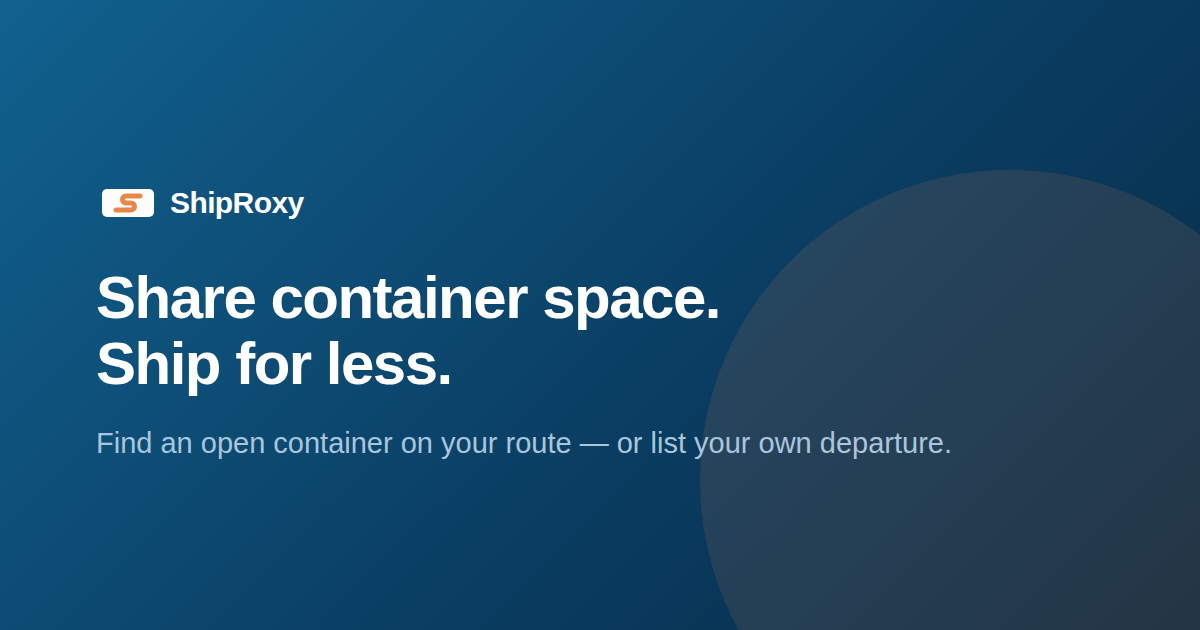
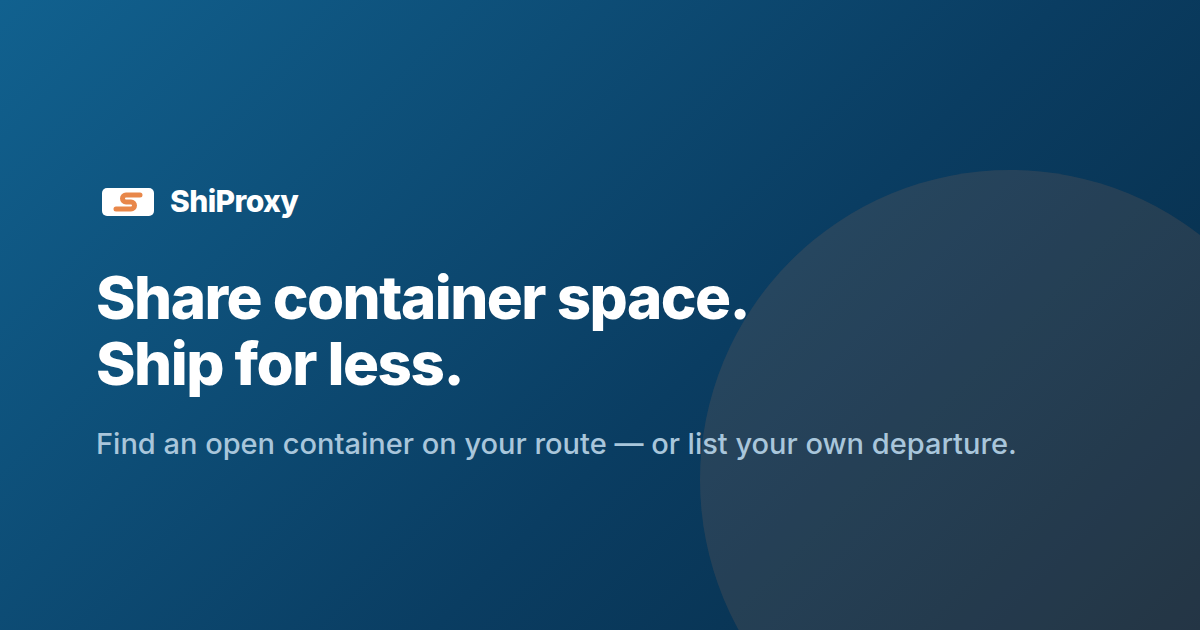
Rename the app to ShiProxy and add lockup PNG exports
Same eight letters, re-split: ShipRoxy read as "Ship + Roxy", ShiProxy
reads as "ship proxy", which is what the product is - a broker standing
between people with spare container space and people with something to
send. Applied to the locale app_name, the logo wordmarks, the PWA and
Capacitor manifests, the mailer and geocoder identities, and the docs.

Also export each lockup as a transparent PNG at 600px and 1200px into
public/images/brand/png/. An SVG loaded through <img> cannot fetch web
fonts, so the wordmark silently falls back outside the app; these are
rendered where Inter is a real installed face. The generator checks for
Inter and skips these rather than emitting exports in the wrong typeface.

Claude-Session: https://claude.ai/code/session_01PUei3KAA9GQjqyUBMMMsd2

diff --git a/scripts/generate-brand-assets.js b/scripts/generate-brand-assets.js
@@ -129,8 +129,51 @@ async function main() {
   console.log('Wrote public/images/og-fallback.png (1200x630).');
 
   await writeNativeAssets(page, { tile, markLight: fs.readFileSync(path.join(BRAND, 'logo-mark-light.svg'), 'utf8') });
+  await writeLockupPngs(page);
 
   await browser.close();
+}
+
+// Transparent PNG exports of the lockups, for anywhere the SVG can't be used
+// (a deck, an email signature, a partner's site). An SVG loaded through <img>
+// can't fetch web fonts, so the wordmark would silently fall back there; these
+// are rendered in a page where Inter is a real installed font.
+async function writeLockupPngs(page) {
+  const outDir = path.join(BRAND, 'png');
+  fs.mkdirSync(outDir, { recursive: true });
+
+  const lockups = [
+    ['logo-horizontal.svg', 'logo-horizontal-navy'],
+    ['logo-horizontal-light.svg', 'logo-horizontal-white'],
+    ['logo-stacked.svg', 'logo-stacked-navy'],
+    ['logo-wordmark.svg', 'logo-wordmark-navy'],
+    ['logo-mark.svg', 'logo-mark-navy'],
+    ['logo-mark-light.svg', 'logo-mark-white'],
+  ];
+
+  const hasInter = await page.evaluate(() => document.fonts.check('16px Inter'));
+  if (!hasInter) {
+    console.warn('  ! Inter is not installed; wordmark PNGs would use a fallback face. Skipping lockup PNGs.');
+    return;
+  }
+
+  for (const [file, name] of lockups) {
+    const svg = fs.readFileSync(path.join(BRAND, file), 'utf8');
+    const viewBox = svg.match(/viewBox="([\d.-]+)\s+([\d.-]+)\s+([\d.]+)\s+([\d.]+)"/);
+    if (!viewBox) throw new Error(`${file} has no parsable viewBox`);
+    const vbW = Number(viewBox[3]);
+    const vbH = Number(viewBox[4]);
+
+    for (const width of [600, 1200]) {
+      const height = Math.round((width * vbH) / vbW);
+      const suffix = width === 1200 ? '@2x' : '';
+      fs.writeFileSync(
+        path.join(outDir, `${name}${suffix}.png`),
+        await renderSvg(page, svg, width, height)
+      );
+    }
+  }
+  console.log(`Wrote ${lockups.length * 2} lockup PNGs to public/images/brand/png/.`);
 }
 
 // Splash art is laid out in HTML rather than SVG because the same design has

diff --git a/lib/mailer.js b/lib/mailer.js
@@ -20,7 +20,7 @@ function buildTransport() {
 
 async function sendMail({ to, subject, text, html }) {
   const transport = buildTransport();
-  const from = process.env.SMTP_FROM || 'ShipRoxy <no-reply@shiproxy.example.com>';
+  const from = process.env.SMTP_FROM || 'ShiProxy <no-reply@shiproxy.example.com>';
 
   if (!transport) {
     console.log(`[mailer] No SMTP_HOST configured - logging email instead of sending.

diff --git a/lib/geocode.js b/lib/geocode.js
@@ -23,7 +23,7 @@ async function geocodeCity(city, country) {
       signal: controller.signal,
       headers: {
         // Required by Nominatim's usage policy (identifies the app, not tracking).
-        'User-Agent': 'ShipRoxy/1.0 (container-sharing marketplace)',
+        'User-Agent': 'ShiProxy/1.0 (container-sharing marketplace)',
       },
     });
     if (!res.ok) return null;

diff --git a/server.js b/server.js
@@ -116,7 +116,7 @@ app.use((err, req, res, next) => { // eslint-disable-line no-unused-vars
 async function start() {
   await runMigrations();
   const server = app.listen(PORT, () => {
-    console.log(`ShipRoxy listening on port ${PORT}`);
+    console.log(`ShiProxy listening on port ${PORT}`);
   });
 
   // Without this the failure is a bare stack trace, and the previous

diff --git a/public/css/style.css b/public/css/style.css
@@ -907,7 +907,7 @@ body.has-sidebar .page {
   font-size: 0.88rem;
 }
 
-/* Why ShipRoxy feature grid - full-bleed tinted band for visual rhythm
+/* Why ShiProxy feature grid - full-bleed tinted band for visual rhythm
    against the plain page background used by the sections above it. */
 .features-section {
   text-align: center;

diff --git a/MOBILE.md b/MOBILE.md
@@ -1,6 +1,6 @@
-# ShipRoxy — App Store / Play Store packaging
+# ShiProxy — App Store / Play Store packaging
 
-ShipRoxy is a server-rendered Express/EJS web app. Rather than a separate
+ShiProxy is a server-rendered Express/EJS web app. Rather than a separate
 native rewrite, the iOS and Android apps are thin [Capacitor](https://capacitorjs.com/)
 shells that load the deployed web app in a native WebView, giving you a real
 installable `.ipa`/`.aab` plus native icon, splash screen, and status bar
@@ -8,15 +8,15 @@ styling, with the option to add native APIs (push notifications, camera,
 etc.) later without changing the backend.
 
 This setup is **prepped now, not submitted**: the native projects, config,
-and placeholder art are all in place so wiring up the final production URL
+and real brand art are all in place so wiring up the final production URL
 and app-store assets at launch time is a quick flip, not a from-scratch task.
 
 ## What's here
 
 ```
 capacitor.config.json     # app id, app name, the URL the native shell loads, plugin config
-resources/icon.png        # 1024x1024 master icon (placeholder art)
-resources/splash.png      # 2732x2732 master splash (placeholder art)
+resources/icon.png        # 1024x1024 master icon
+resources/splash.png      # 2732x2732 master splash
 ios/                       # generated Xcode project (Capacitor iOS platform)
 android/                   # generated Gradle project (Capacitor Android platform)
 scripts/generate-brand-assets.js    # (re)generates web + native icon/splash sizes from the brand SVGs
@@ -28,8 +28,9 @@ output, `Pods/`, `.gradle/`, `local.properties`, etc.
 
 ## Before you build for real
 
-Three things are placeholders on purpose and need your real values before
-building for TestFlight/Play internal testing or submission:
+Two things are placeholders on purpose and need your real values before
+building for TestFlight/Play internal testing or submission (the third is
+already done):
 
 1. **Production URL** — `capacitor.config.json`'s `server.url` is currently
    `https://shiproxy.example.com`. Point it at your deployed Replit/custom
@@ -47,7 +48,7 @@ building for TestFlight/Play internal testing or submission:
    `AndroidManifest.xml`; iOS: the Bundle Identifier in Xcode's target
    settings).
 
-3. **App icon & splash art** — these carry the real ShipRoxy brand and are
+3. **App icon & splash art** — these carry the real ShiProxy brand and are
    committed, so there is nothing to do before a build. They are rendered
    from the SVG masters in `public/images/brand/` (see `BRAND.md`) by
    `npm run brand:assets`, which writes every size each native template

diff --git a/BRAND.md b/BRAND.md
@@ -1,8 +1,8 @@
-# ShipRoxy brand assets
+# ShiProxy brand assets
 
 ## The mark
 
-An orange **S** routed through a shipping container. The S is ShipRoxy's
+An orange **S** routed through a shipping container. The S is ShiProxy's
 initial; drawn as a path that threads through the container body it also says
 what the product is — your parcel moving through space inside someone else's
 container.
